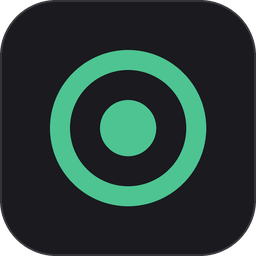
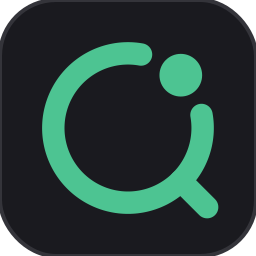
Redesign the lens mark: gap and dot at upper right, handle at lower right
- lens.svg: the ring now has a 70 degree gap at the upper right, with a solid dot (r=2.0) in its middle; a handle runs from the ring at 315 degrees out to r=10.5. The centre is empty.
- Tray art (six state files) follows the same geometry. The busy state's badge moves to the end of the handle, as a bead, so it does not collide with the gap dot.
- lens.ico and the README brand mark (svg and png) are regenerated from the new geometry.
- UI-SPEC.md, docs/QML.md and the CMake comment describe the new geometry.

diff --git a/docs/QML.md b/docs/QML.md
@@ -241,8 +241,7 @@
 `icons/tray-budget-*.svg` 的琥珀色。菜单保持指针优先，`WindowDoesNotAcceptFocus`，不设 Tab 站与焦点环；
 行与语言项仍有读屏名称与按压动作（ADR 0108）。
 
-**一族图标只有一个几何**。`icons/lens.svg` 是产品标本身：24×24 的坐标系里，外圆环 `r=7`、描边 2.1，中心
-实心点 `r=2.9`。它和 `ui-*.svg` 一样描白色、由 QML 染色，所以托盘菜单的首行用 `Icon` 取它，绿（`ok`）与
+**一族图标只有一个几何**。`icons/lens.svg` 是产品标本身：24×24 的坐标系里，外圆环 `r=7`、描边 2.1，右上角留一段 70° 的缺口（圆头端点）；缺口正中是实心点 `r=2.0`；右下角伸出一根柄，沿 45° 方向从 `r=7` 到 `r=10.5`，同样描边 2.1、圆头。它和 `ui-*.svg` 一样描白色、由 QML 染色，所以托盘菜单的首行用 `Icon` 取它，绿（`ok`）与
 灰（`faint`）跟着主题与取词状态走。八个 `tray-<状态>-<任务栏>.svg` 是同一几何各自带色——shell 的位图没有
 QML 给它染色，深浅两套只能各写一份。
 

diff --git a/UI-SPEC.md b/UI-SPEC.md
@@ -53,7 +53,7 @@
 | 扫描已关 | 全灰 | 自动扫描关闭（设置开关） |
 | 预算耗尽 | 琥珀色 | 今日预算到顶，暂停取词 |
 
-图标本体为透镜图形：外圆环 + 中心实心点。四态共用 `icons/lens.svg` 一个几何（24×24 里外环 `r=7`、描边 2.1，中心点 `r=2.9`），深浅两套各带自己的色。同一个几何还供托盘菜单首行与可执行文件的图标：前者取白色那份、由 QML 按状态染绿或染灰，后者烧成 `icons/lens.ico`。
+图标本体为透镜图形：外圆环（右上角留缺口，缺口正中一个实心点）加右下角一根柄。四态共用 `icons/lens.svg` 一个几何（24×24 里外环 `r=7`、描边 2.1，缺口 70°，实心点 `r=2.0`，柄到 `r=10.5`），深浅两套各带自己的色；忙碌态在柄的末端加一枚带底边的圆点。同一个几何还供托盘菜单首行与可执行文件的图标：前者取白色那份、由 QML 按状态染绿或染灰，后者烧成 `icons/lens.ico`。
 
 ## 4.2 托盘菜单
 
